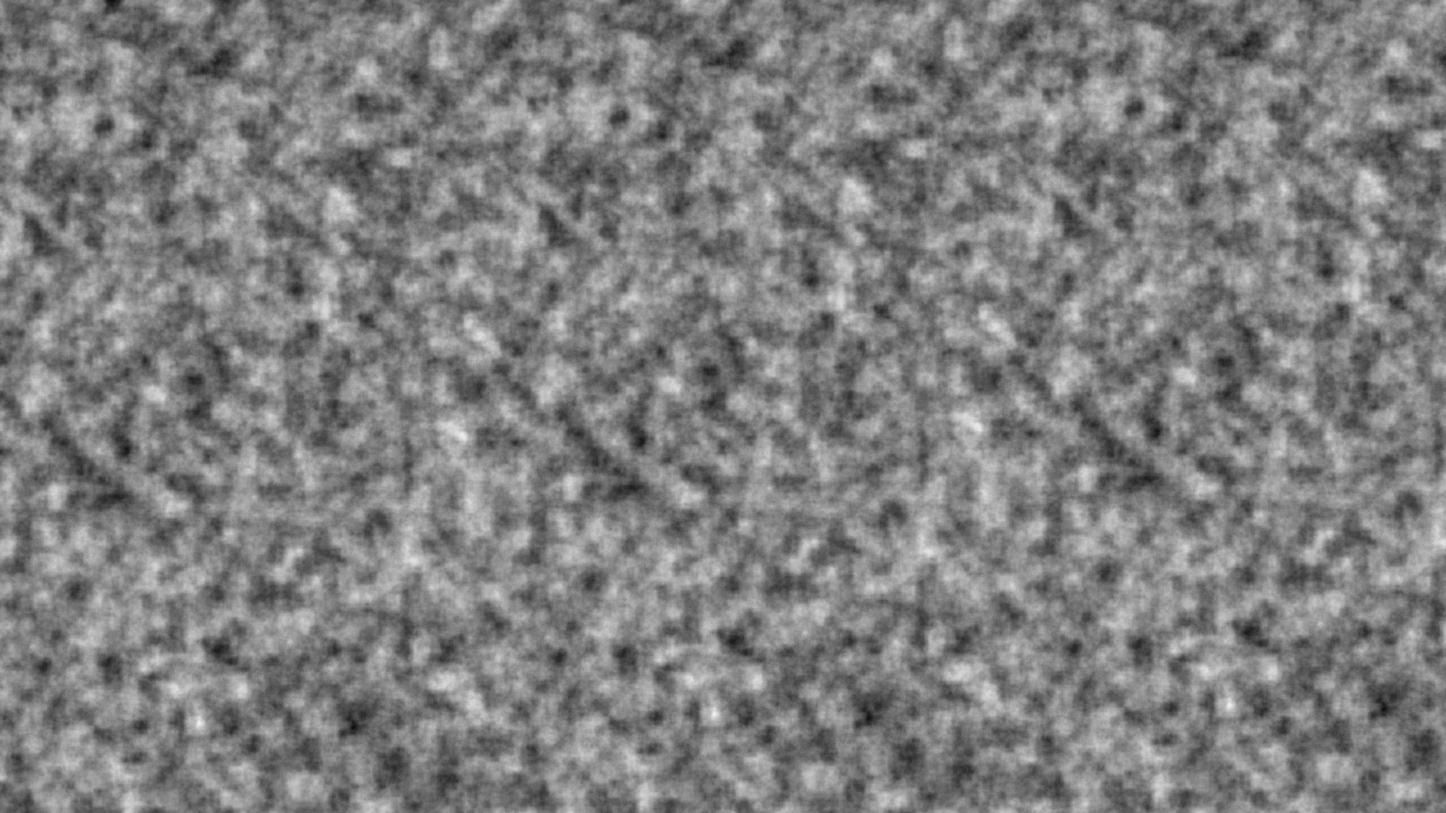
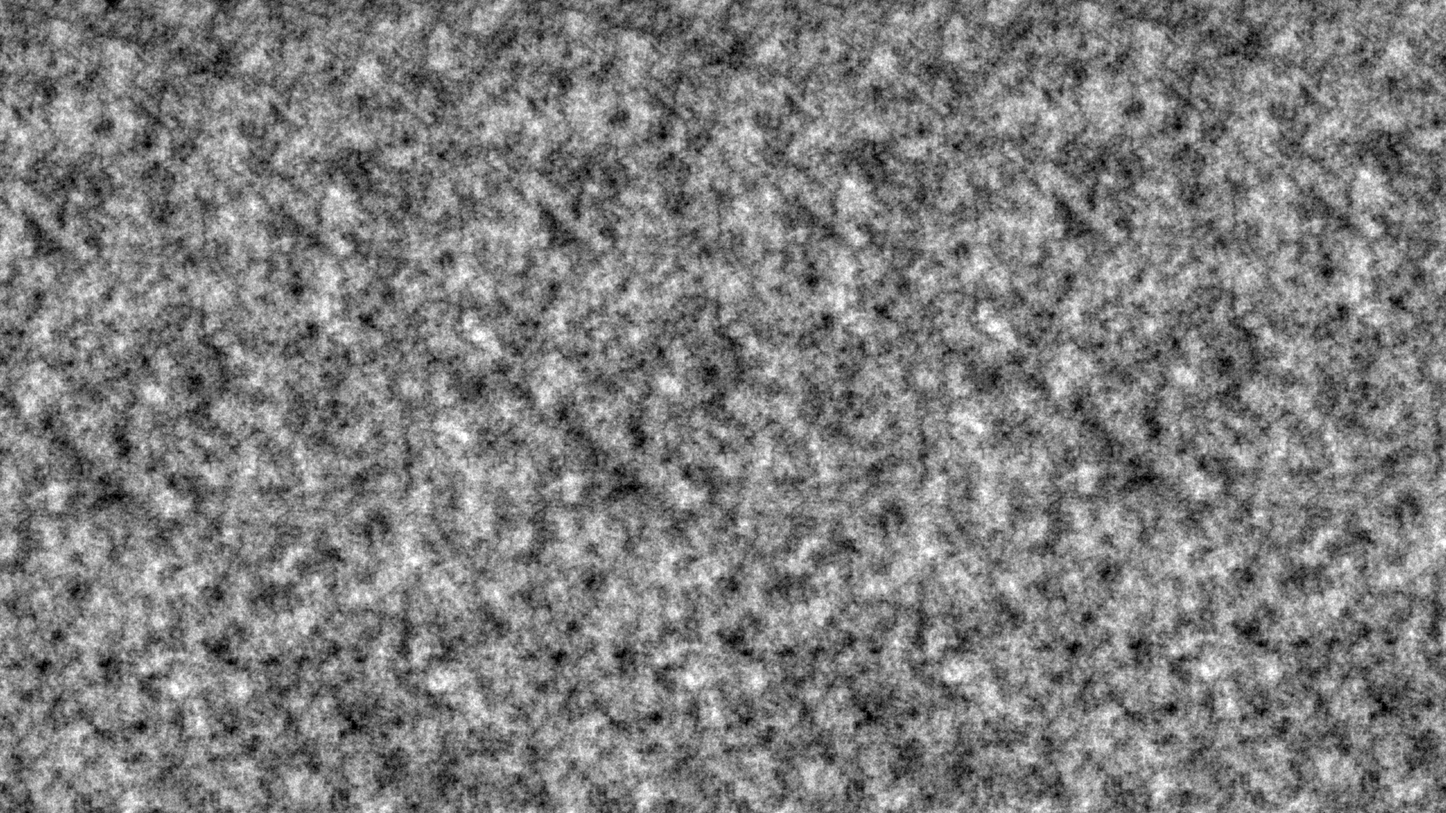
Add usage to readme, add persistance and octaves as cmd arguments

Changed region(s): [[0.0, 0.0, 1.0, 1.0]]

diff --git a/main.go b/main.go
@@ -59,6 +59,8 @@ func PerlinNoise2D(x, y, persistence float64, octaves int) float64 {
 }
 
 func main() {
+	per := 0.5
+	oct := 5
 	width, height := 2560, 1440
 	if len(os.Args) > 1 {
 		if n, err := strconv.Atoi(os.Args[1]); err == nil && n > 0 {
@@ -70,11 +72,21 @@ func main() {
 			height = n
 		}
 	}
+	if len(os.Args) > 3 {
+		if n, err := strconv.ParseFloat(os.Args[3], 64); err == nil && n > 0 {
+			per = n
+		}
+	}
+	if len(os.Args) > 4 {
+		if n, err := strconv.Atoi(os.Args[4]); err == nil && n > 0 {
+			oct = n
+		}
+	}
 
 	img := image.NewGray(image.Rect(0, 0, width, height))
 	for y := 0; y < height; y++ {
 		for x := 0; x < width; x++ {
-			value := PerlinNoise2D(float64(x)/16, float64(y)/16, 0.5, 5)
+			value := PerlinNoise2D(float64(x)/16, float64(y)/16, per, oct)
 			gray := uint8(math.Max(0, math.Min(255, (value+1)/2*255)))
 			img.SetGray(x, y, color.Gray{Y: gray})
 		}

diff --git a/README.md b/README.md
@@ -2,6 +2,17 @@
 
 This is perlin noise!!! !!! !!! [source](https://habr.com/ru/articles/142592/)
 
+# Usage 
+
+```sh
+go run [width] [height] [persistence] [octaves]
+```
+
+Example
+```sh
+go run 2560 1440 0.5 5
+```
+
 ## Result
 
 ![image](./noise.png)
